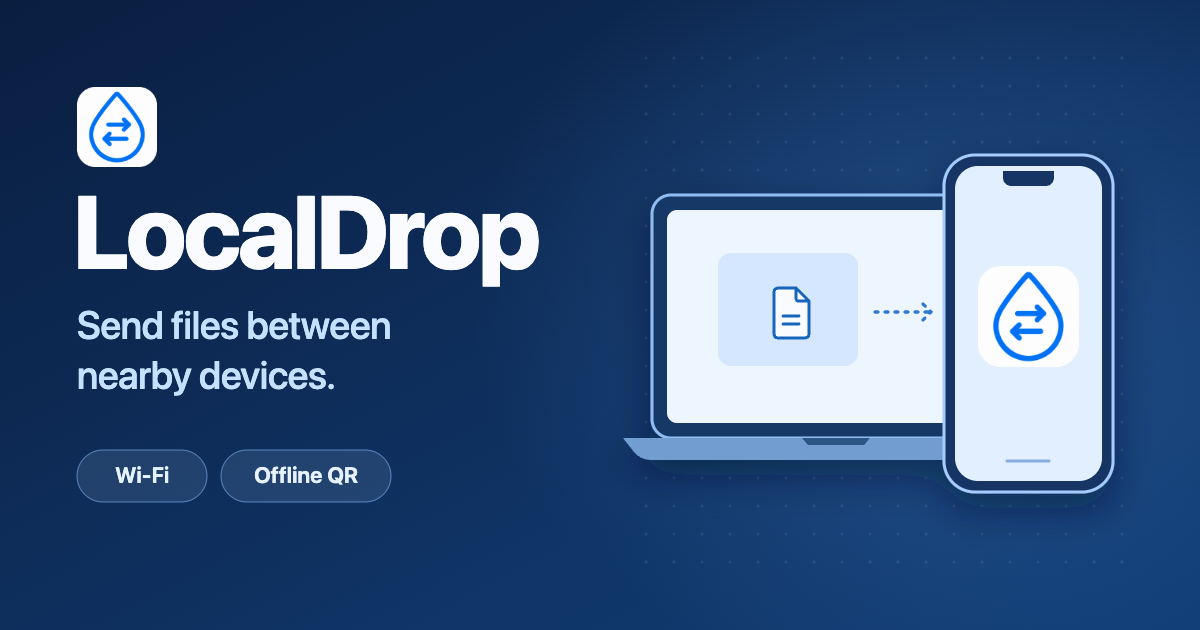
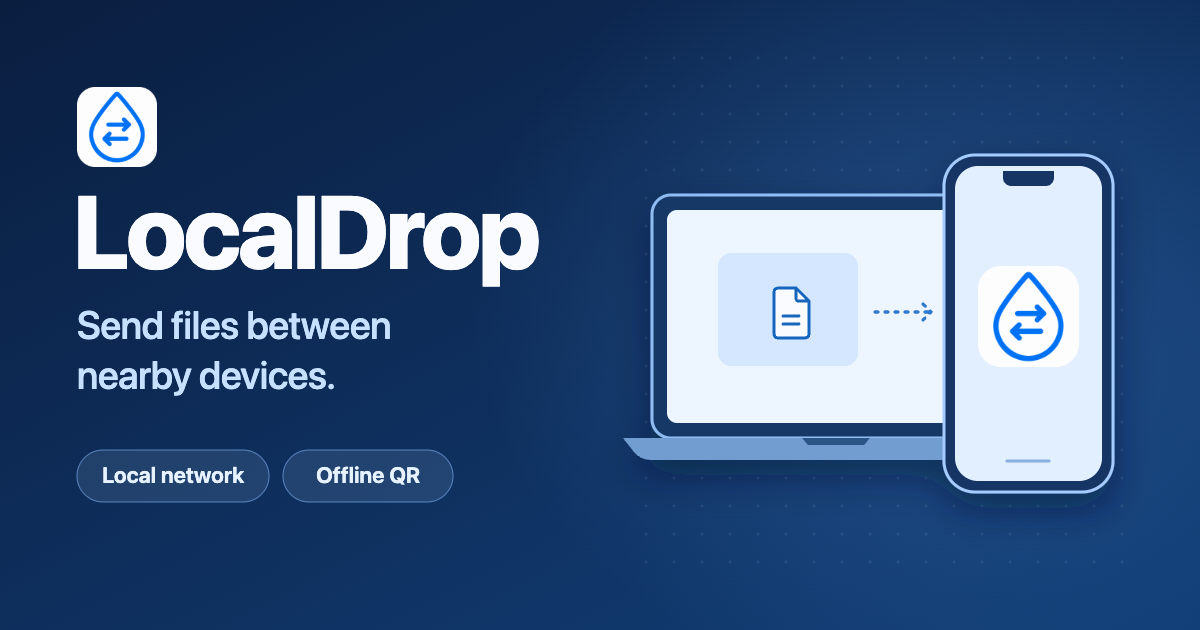
fix(ui): describe transfers as local network sharing

Changed region(s): [[0.0925, 0.6937, 0.37, 0.8143]]

diff --git a/src/i18n.ts b/src/i18n.ts
@@ -4,12 +4,12 @@ const translations = {
   language: ['Language', '表示言語'],
   homeLink: ['LocalDrop home', 'LocalDropのトップページ'],
   tagline: ['Send files between nearby devices.', '近くの端末とファイルをやり取りできます。'],
-  wifiTransfer: ['Transfer over Wi-Fi', 'Wi-Fiで転送'],
-  wifiModeDescription: ['Pair with QR codes, then send files over Wi-Fi.', 'QRコードでペアリングし、ファイルはWi-Fiで送ります。'],
-  wifiStart: ['Connect to the same Wi-Fi and start with Receive.', '両方の端末を同じWi-Fiにつなぎ、「受信」から始めてください。'],
+  localNetworkTransfer: ['Local network transfer', 'ローカルネットワークで転送'],
+  networkModeDescription: ['Pair with QR codes and send files directly between devices.', 'QRコードでペアリングし、端末間でファイルを直接送ります。'],
+  networkStart: ['Connect both devices to the same network, such as the same Wi-Fi, and start with Receive.', '両方の端末を同じネットワーク（同じWi-Fiなど）につなぎ、「受信」から始めてください。'],
   receive: ['Receive', '受信'],
   send: ['Send', '送信'],
-  unsupportedWebrtc: ['This browser does not support WebRTC. Open LocalDrop in Chrome to use Wi-Fi transfer.', 'このブラウザはWebRTCに対応していません。Wi-Fi転送を使うにはChromeで開いてください。'],
+  unsupportedWebrtc: ['Local network transfer is unavailable in this browser. Open LocalDrop in Chrome to use it.', 'このブラウザではローカルネットワークで転送できません。ChromeでLocalDropを開いてください。'],
   transferByQr: ['Offline QR transfer', 'オフラインQR転送'],
   qrIntro: ['The QR codes carry the file itself. Send up to 4 KiB without a network connection.', 'ファイル自体をQRコードに変換して送ります。4 KiBまでならネット接続は不要です。'],
   qrFileTransfer: ['QR file transfer', 'QRファイル転送'],
@@ -23,13 +23,13 @@ const translations = {
   disconnected: ['Disconnected', '切断しました'],
   connectionInterrupted: ['Connection interrupted', '接続が途切れました'],
   connectionLost: ['Connection lost', '接続が切れました'],
-  reconnect: ['Check that both devices are still on the same Wi-Fi, then start over on both devices.', '両方の端末が同じWi-Fiにつながっていることを確認し、両端末で最初からやり直してください。'],
+  reconnect: ['Check that both devices are still on the same network, then start over on both devices.', '両方の端末が同じネットワークにつながっていることを確認し、両端末で最初からやり直してください。'],
   connectionFailed: ['Could not connect', '相手の端末に接続できませんでした'],
-  connectionHelp: ['Connect both devices to the same Wi-Fi and start over on both devices. Some Wi-Fi networks block connections between devices. If it still fails, try another Wi-Fi network.', '両方の端末を同じWi-Fiにつなぎ、両端末で最初からやり直してください。同じWi-Fiでも、端末同士の通信が制限されていることがあります。接続できない場合は、別のWi-Fiをお試しください。'],
+  connectionHelp: ['Connect both devices to the same network and start over on both devices. Some networks block connections between devices, even on the same Wi-Fi. If it still fails, try another network.', '両方の端末を同じネットワークにつなぎ、両端末で最初からやり直してください。同じネットワークでも、端末同士の通信が制限されていることがあります。接続できない場合は、別のネットワークをお試しください。'],
   checkingConnection: ['Connecting to the other device…', '相手の端末に接続しています…'],
   setupFailed: ['Could not set up the connection.', '接続の準備ができませんでした。'],
-  receiveWifi: ['Receive over Wi-Fi', 'Wi-Fiで受信'],
-  sendWifi: ['Send over Wi-Fi', 'Wi-Fiで送信'],
+  receiveOverNetwork: ['Receive over the network', 'ネットワークで受信'],
+  sendOverNetwork: ['Send over the network', 'ネットワークで送信'],
   createOffer: ['Create offer', '接続用QRコードを作成'],
   createTextOffer: ['Create offer text code', '接続用テキストコードを作成'],
   createAnswer: ['Create answer', '応答を作成'],

diff --git a/src/App.tsx b/src/App.tsx
@@ -1,4 +1,4 @@
-import { ArrowDown, ArrowUp, ExternalLink, Languages, LoaderCircle, QrCode, Wifi } from 'lucide-react'
+import { ArrowDown, ArrowUp, ExternalLink, Languages, LoaderCircle, Network, QrCode } from 'lucide-react'
 import { useEffect, useRef, useState } from 'react'
 import type { FormEvent } from 'react'
 import { FileDownload } from './FileDownload'
@@ -66,13 +66,13 @@ export function App() {
         <Connection role={role} onReset={() => setRole(null)} />
       ) : (
         <div className="mode-grid">
-          <section className="card mode-card wifi-mode" aria-labelledby="device-heading">
-            <div className="mode-icon"><Wifi size={25} aria-hidden="true" /></div>
-            <h2 id="device-heading">{t('wifiTransfer')}</h2>
+          <section className="card mode-card" aria-labelledby="device-heading">
+            <div className="mode-icon"><Network size={25} aria-hidden="true" /></div>
+            <h2 id="device-heading">{t('localNetworkTransfer')}</h2>
             {supported ? (
               <>
-                <p className="mode-description">{t('wifiModeDescription')}</p>
-                <p className="mode-note">{t('wifiStart')}</p>
+                <p className="mode-description">{t('networkModeDescription')}</p>
+                <p className="mode-note">{t('networkStart')}</p>
                 <div className="actions mode-actions">
                   <button onClick={() => setRole('receiver')}>
                     <ArrowDown size={17} aria-hidden="true" />
@@ -431,7 +431,7 @@ function Connection({ role, onReset }: { role: Role; onReset: () => void }) {
   return (
     <section className="card" aria-labelledby="connection-heading">
       <div className={showConnected ? 'connection-heading is-connected' : 'connection-heading'}>
-        <h2 id="connection-heading">{t(isReceiver ? 'receiveWifi' : 'sendWifi')}</h2>
+        <h2 id="connection-heading">{t(isReceiver ? 'receiveOverNetwork' : 'sendOverNetwork')}</h2>
         <button className="secondary" type="button" onClick={() => {
           if (canDisconnect && session.current) end(session.current)
           else onReset()

diff --git a/index.html b/index.html
@@ -4,20 +4,20 @@
     <meta charset="UTF-8" />
     <meta name="viewport" content="width=device-width, initial-scale=1.0" />
     <title>LocalDrop</title>
-    <meta name="description" content="Send files between nearby devices over Wi-Fi or transfer small files with QR codes offline." />
+    <meta name="description" content="Send files to nearby devices over a local network, or use QR codes for small offline transfers." />
     <meta name="theme-color" content="#edf5ff" />
     <link rel="icon" type="image/vnd.microsoft.icon" sizes="16x16 32x32 48x48" href="/favicon.ico" />
     <link rel="icon" type="image/png" sizes="256x256" href="/icon.png" />
     <link rel="apple-touch-icon" href="/apple-touch-icon.png" />
     <meta property="og:type" content="website" />
     <meta property="og:title" content="LocalDrop" />
-    <meta property="og:description" content="Send files between nearby devices over Wi-Fi or transfer small files with QR codes offline." />
+    <meta property="og:description" content="Send files to nearby devices over a local network, or use QR codes for small offline transfers." />
     <meta property="og:url" content="https://okaryo.github.io/localdrop/" />
     <meta property="og:image" content="https://okaryo.github.io/localdrop/og-image.png" />
     <meta property="og:image:type" content="image/png" />
     <meta property="og:image:width" content="1200" />
     <meta property="og:image:height" content="630" />
-    <meta property="og:image:alt" content="LocalDrop. Send files between nearby devices with Wi-Fi or offline QR codes." />
+    <meta property="og:image:alt" content="LocalDrop. Send files between nearby devices over a local network or offline with QR codes." />
     <meta name="twitter:card" content="summary_large_image" />
   </head>
   <body>

diff --git a/docs/development.md b/docs/development.md
@@ -9,7 +9,7 @@ pnpm install --frozen-lockfile
 pnpm dev --host 0.0.0.0
 ```
 
-Connect both devices to the same Wi-Fi and open the **Network** URL printed by
+Connect both devices to the same network and open the **Network** URL printed by
 Vite in Chrome on both devices. If the page does not load, check that the
 computer running Vite allows incoming connections to the dev server.
 
@@ -23,7 +23,7 @@ that choice in the browser.
    tabs on one computer, the localhost URL printed by `pnpm preview` after
    `pnpm build`.
 2. Choose **QR file transfer** on both pages. Wait until both say **Ready for
-   offline transfer**, then turn off Wi-Fi and mobile data on the devices or
+   offline transfer**, then disconnect both devices from the network or
    set both tabs to **Offline** in Chrome DevTools. Keep the pages open.
 3. Choose **Send by QR** on one device and select a file of up to 4 KiB. On the
    receiving device, choose **Receive by QR** and then **Scan file QR codes**.
@@ -31,9 +31,9 @@ that choice in the browser.
    The receiver lists any missing codes, which can be scanned in any order.
 5. When every code has been read and the file verified, select **Download**.
 
-## Test the current prototype
+## Test local network pairing
 
-1. Open an HTTPS build in Chrome on both devices. Connect them to the same Wi-Fi.
+1. Open an HTTPS build in Chrome on both devices. Connect them to the same network, such as the same Wi-Fi.
 2. Choose **Receive** on the receiving device and select **Create offer**.
    Allow camera access if prompted. LocalDrop creates the offer after access is granted.
 3. Choose **Send** on the sending device, select **Scan offer QR code**, and
@@ -53,8 +53,8 @@ If pairing stops, check the status shown in the app:
 - **Could not apply the answer** means the browser rejected the answer. Check
   that it came from the offer still shown on the receiving device.
 - **Could not connect** means the devices could not start a transfer. Check
-  that both devices are on the same Wi-Fi. Some networks block connections
-  between devices, so try another Wi-Fi network if the problem continues.
+  that both devices are on the same network. Some networks block connections
+  between devices, so try another network if the problem continues.
 
 Use **Start over** on both devices to create a fresh pair of codes.
 

diff --git a/README.md b/README.md
@@ -1,12 +1,12 @@
 # LocalDrop
 
-Send files to nearby devices over Wi-Fi, or use QR codes for small offline transfers.
+Send files to nearby devices over a local network, or use QR codes for small offline transfers.
 
 [Open LocalDrop](https://okaryo.github.io/localdrop/)
 
-## Wi-Fi transfer
+## Local network transfer
 
-Connect both devices to the same Wi-Fi. Start with **Receive** on one device, then choose **Send** on the other and follow the QR pairing steps. Select one or more files to send directly between the devices over WebRTC.
+Connect both devices to the same network, such as the same Wi-Fi. Start with **Receive** on one device, then choose **Send** on the other and follow the QR pairing steps. Select one or more files to send directly between the devices over WebRTC.
 
 ## Offline QR transfer
 
@@ -14,7 +14,7 @@ Open **QR file transfer** on both devices before going offline. Wait until both 
 
 ## Limits
 
-- Some Wi-Fi networks block connections between devices. Try another network if the devices cannot connect.
+- Some networks block connections between devices, even on the same Wi-Fi. Try another network if the devices cannot connect.
 - Files over 25 MiB require a browser that lets the receiving device choose where to save the file.
 - Offline QR transfer supports one file up to 4 KiB.
 
